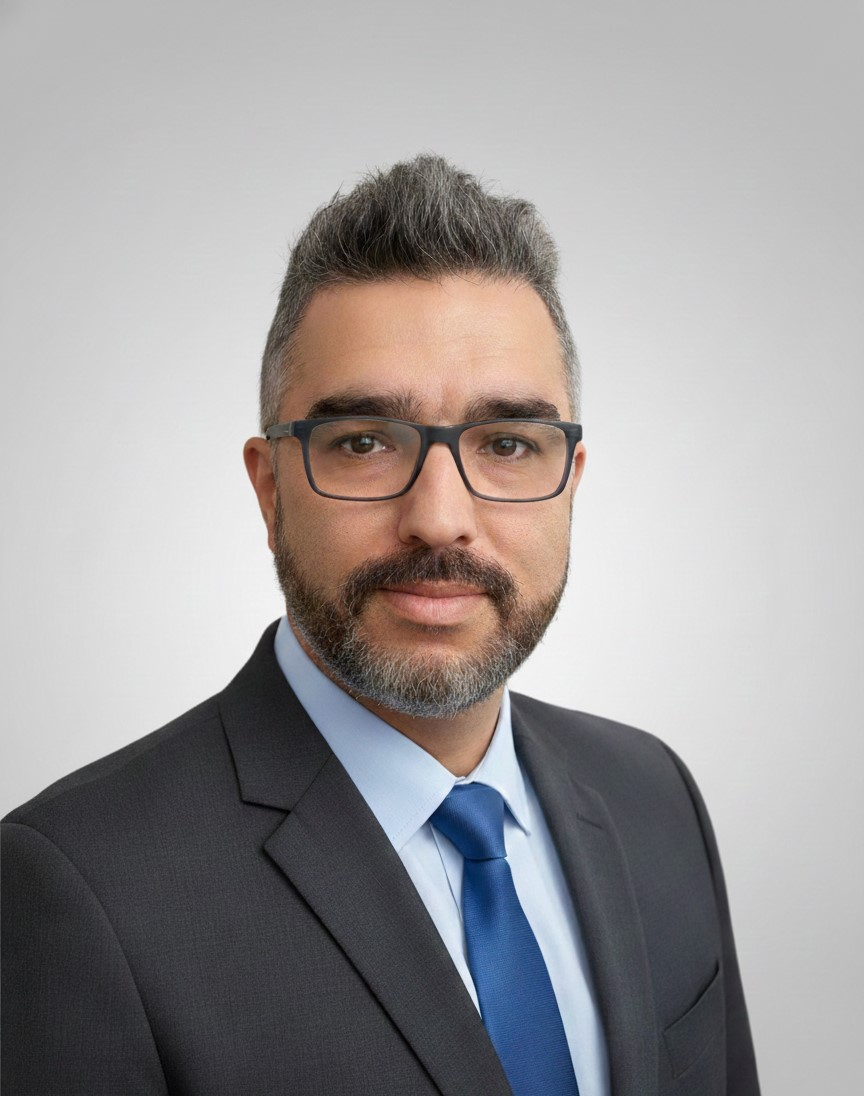
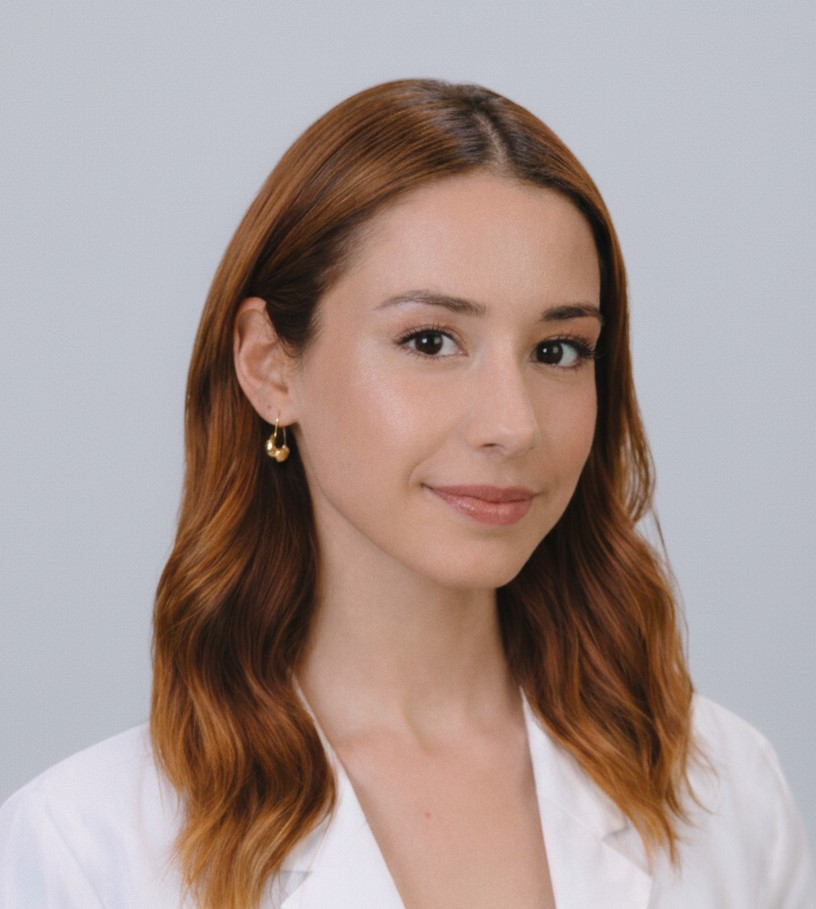
feat: add About page using reusable About and Team sections

diff --git a/OzelFidanlar/src/features/home/sections/About-us/AboutContentSection.tsx b/OzelFidanlar/src/features/home/sections/About-us/AboutContentSection.tsx
@@ -1,0 +1,67 @@
+import { Link } from "react-router-dom";
+import aboutImage from "../../../../assets/images/home/about/about.jpg";
+import { aboutFeatures } from "../../data/About/aboutData";
+import AboutItem from "../../components/About/AboutItem";
+
+const AboutContentSection: React.FC = () => {
+  return (
+    <section className="relative w-full">
+      <div className="relative w-full overflow-hidden">
+        <img
+          src={aboutImage}
+          alt="Özel Fidanlar Özel Eğitim ve Rehabilitasyon Merkezi"
+          className="h-[calc(var(--viewport-height)*0.6)] w-full object-cover"
+        />
+        <div className="absolute inset-0 bg-black/20" />
+      </div>
+
+      <div className="relative -mt-32 flex justify-center">
+        <div className="w-full max-w-3xl rounded-sm bg-white p-10 shadow-xl shadow-gray-500">
+          <h2 className="mb-10 inline-block border-l-4 border-amber-300 bg-[#001064]/10 pl-1 text-3xl font-bold text-gray-900">
+            Hakkımızda
+          </h2>
+
+          <p className="mb-10 text-lg leading-relaxed text-gray-600">
+            Özel eğitim alanında 2002 yılından bu yana edindiğimiz bilgi ve
+            tecrübeyle, bireylerin gelişim yolculuklarına rehberlik ediyoruz. Bu
+            birikimi, çocuklarımızın ve ailelerinin ihtiyaçlarına en doğru
+            şekilde cevap verebilmek amacıyla Özel Fidanlar Özel Eğitim ve
+            Rehabilitasyon Merkezi çatısı altında bir araya getirdik.
+            <br />
+            <br />
+            Alanında uzman kadromuzla; bireysel farklılıkları esas alan,
+            bilimsel temellere dayalı ve güven odaklı bir eğitim anlayışı
+            benimsiyoruz. Her bireyin potansiyelini ortaya çıkaran,
+            sürdürülebilir ve bütüncül çözümler üretmeyi hedefliyoruz.
+          </p>
+
+          <div className="mt-10 grid gap-6 grid-cols-2">
+            {aboutFeatures.map((item) => (
+              <AboutItem key={item.id} item={item} />
+            ))}
+          </div>
+
+          <div className="group mt-14 inline-block">
+            <Link
+              to="/about/us"
+              className="relative inline-block overflow-hidden border border-[#ffda68]
+              bg-[linear-gradient(94.06deg,#ffb629_-1.21%,#ffda56_58.66%,#ffd7a6_116.84%)]
+              px-8 py-4 font-semibold text-black
+              shadow-[rgba(33,35,38,0.1)_0_10px_10px_-10px]"
+            >
+              <span
+                className="absolute left-32 top-6 h-16 w-56 rounded-full bg-white
+                transition-all duration-300 ease-in-out
+                group-hover:-left-8 group-hover:-top-5
+                group-hover:h-44 group-hover:w-60"
+              />
+              <span className="relative z-10">Detaylı Bilgi</span>
+            </Link>
+          </div>
+        </div>
+      </div>
+    </section>
+  );
+};
+
+export default AboutContentSection;

diff --git a/OzelFidanlar/src/router/AppRouter.tsx b/OzelFidanlar/src/router/AppRouter.tsx
@@ -1,11 +1,21 @@
 import { createBrowserRouter } from "react-router-dom";
 import MainLayout from "../layouts/mainlayout/MainLayout";
 import HomePage from "../features/home/pages/homepage/HomePage";
+import AboutPage from "../features/home/pages/aboutpage/AboutPage";
 
 export const router = createBrowserRouter([
   {
     path: "/",
     element: <MainLayout />,
-    children: [{ index: true, element: <HomePage /> }],
+    children: [
+      { 
+        index: true, 
+        element: <HomePage /> 
+      },
+            {
+        path: "about",
+        element: <AboutPage />,
+      },
+    ],
   },
 ]);

diff --git a/OzelFidanlar/src/features/home/pages/homepage/HomePage.tsx b/OzelFidanlar/src/features/home/pages/homepage/HomePage.tsx
@@ -6,7 +6,6 @@ import AboutSection from "../../sections/About-us/AboutSection";
 import TeamSection from "../../sections/Team/TeamSection";
 import ContactSection from "../../sections/Contact/ContactSection";
 import BlogSection from "../../sections/Blog/BlogSection";
-import { Footer } from "../../../../shared/components/footer/Footer";
 
 const HomePage = () => {
   useFixedHeroHeight();
@@ -25,7 +24,6 @@ const HomePage = () => {
       <section aria-hidden className="h-10" />
       <BlogSection />
       <section aria-hidden className="h-10" />
-      <Footer />
     </>
   );
 };

diff --git a/OzelFidanlar/src/features/home/pages/aboutpage/AboutPage.tsx b/OzelFidanlar/src/features/home/pages/aboutpage/AboutPage.tsx
@@ -1,0 +1,16 @@
+import React from "react";
+import AboutContentSection from "../../sections/About-us/AboutContentSection";
+import TeamSection from "../../sections/Team/TeamSection";
+
+const AboutPage: React.FC = () => {
+  return (
+    <>
+      <AboutContentSection />
+      <section aria-hidden className="h-10" />
+      <TeamSection />
+      <section aria-hidden className="h-10" />
+    </>
+  );
+};
+
+export default AboutPage;

diff --git a/OzelFidanlar/src/layouts/mainlayout/MainLayout.tsx b/OzelFidanlar/src/layouts/mainlayout/MainLayout.tsx
@@ -1,11 +1,13 @@
 import { Outlet } from "react-router";
 import { Header } from "../../shared/components/header/Header";
+import { Footer } from "../../shared/components/footer/Footer";
 
 const MainLayout = () => {
   return (
     <>
       <Header />
       <Outlet />
+      <Footer />
     </>
   );
 };

diff --git a/OzelFidanlar/src/features/home/data/Team/teamData.ts b/OzelFidanlar/src/features/home/data/Team/teamData.ts
@@ -20,8 +20,8 @@ export const teamMembers: TeamMember[] = [
   },
   {
     id: 2,
-    name: "Mehmet Aksoy",
-    role: "Özel Eğitim Öğretmeni",
+    name: "Nihal Sarıpınar",
+    role: "Dil ve Konuşma Terapisti",
     image: user2,
     isFeatured: true,
   },
